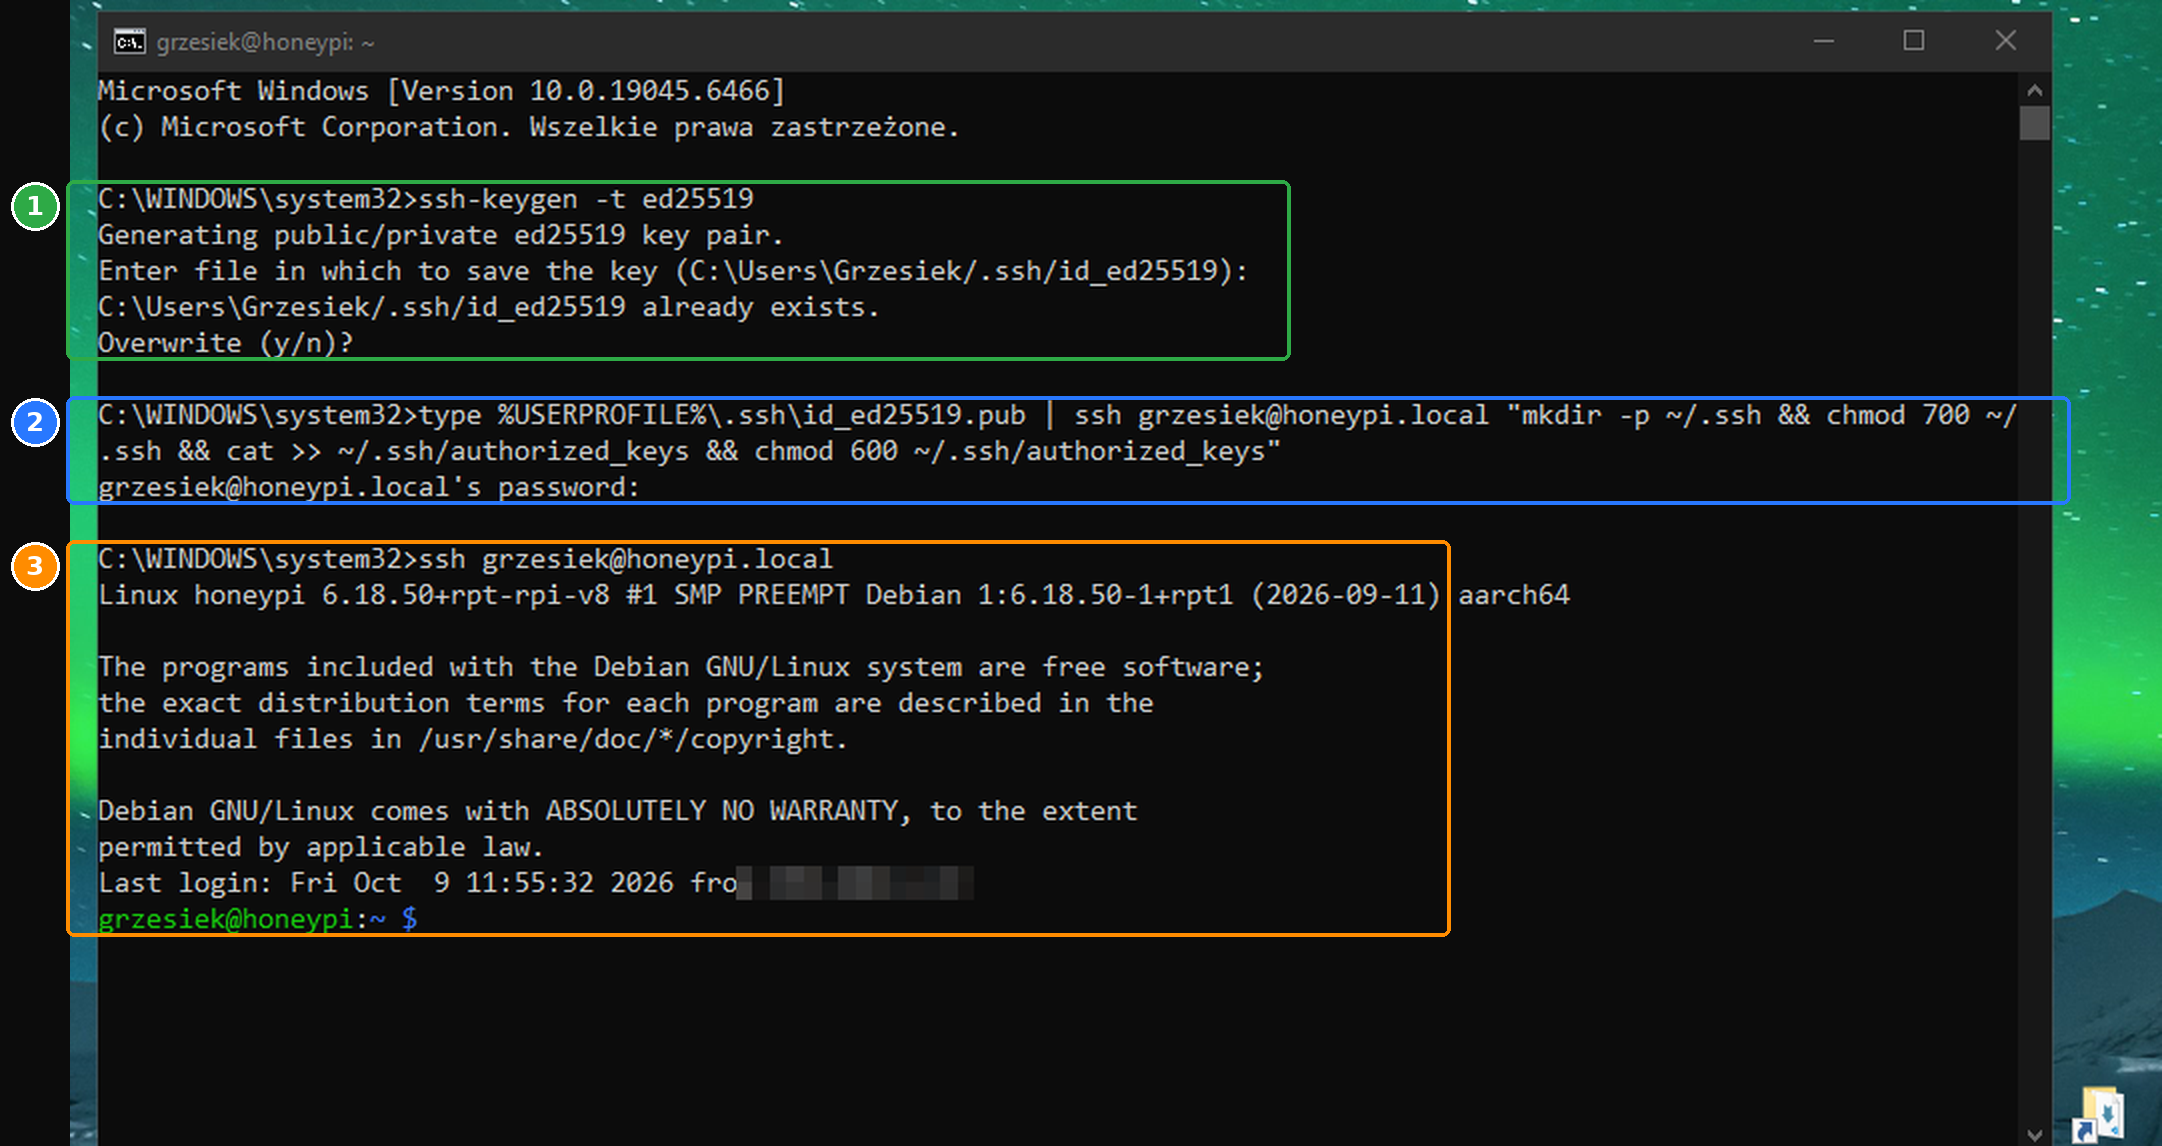
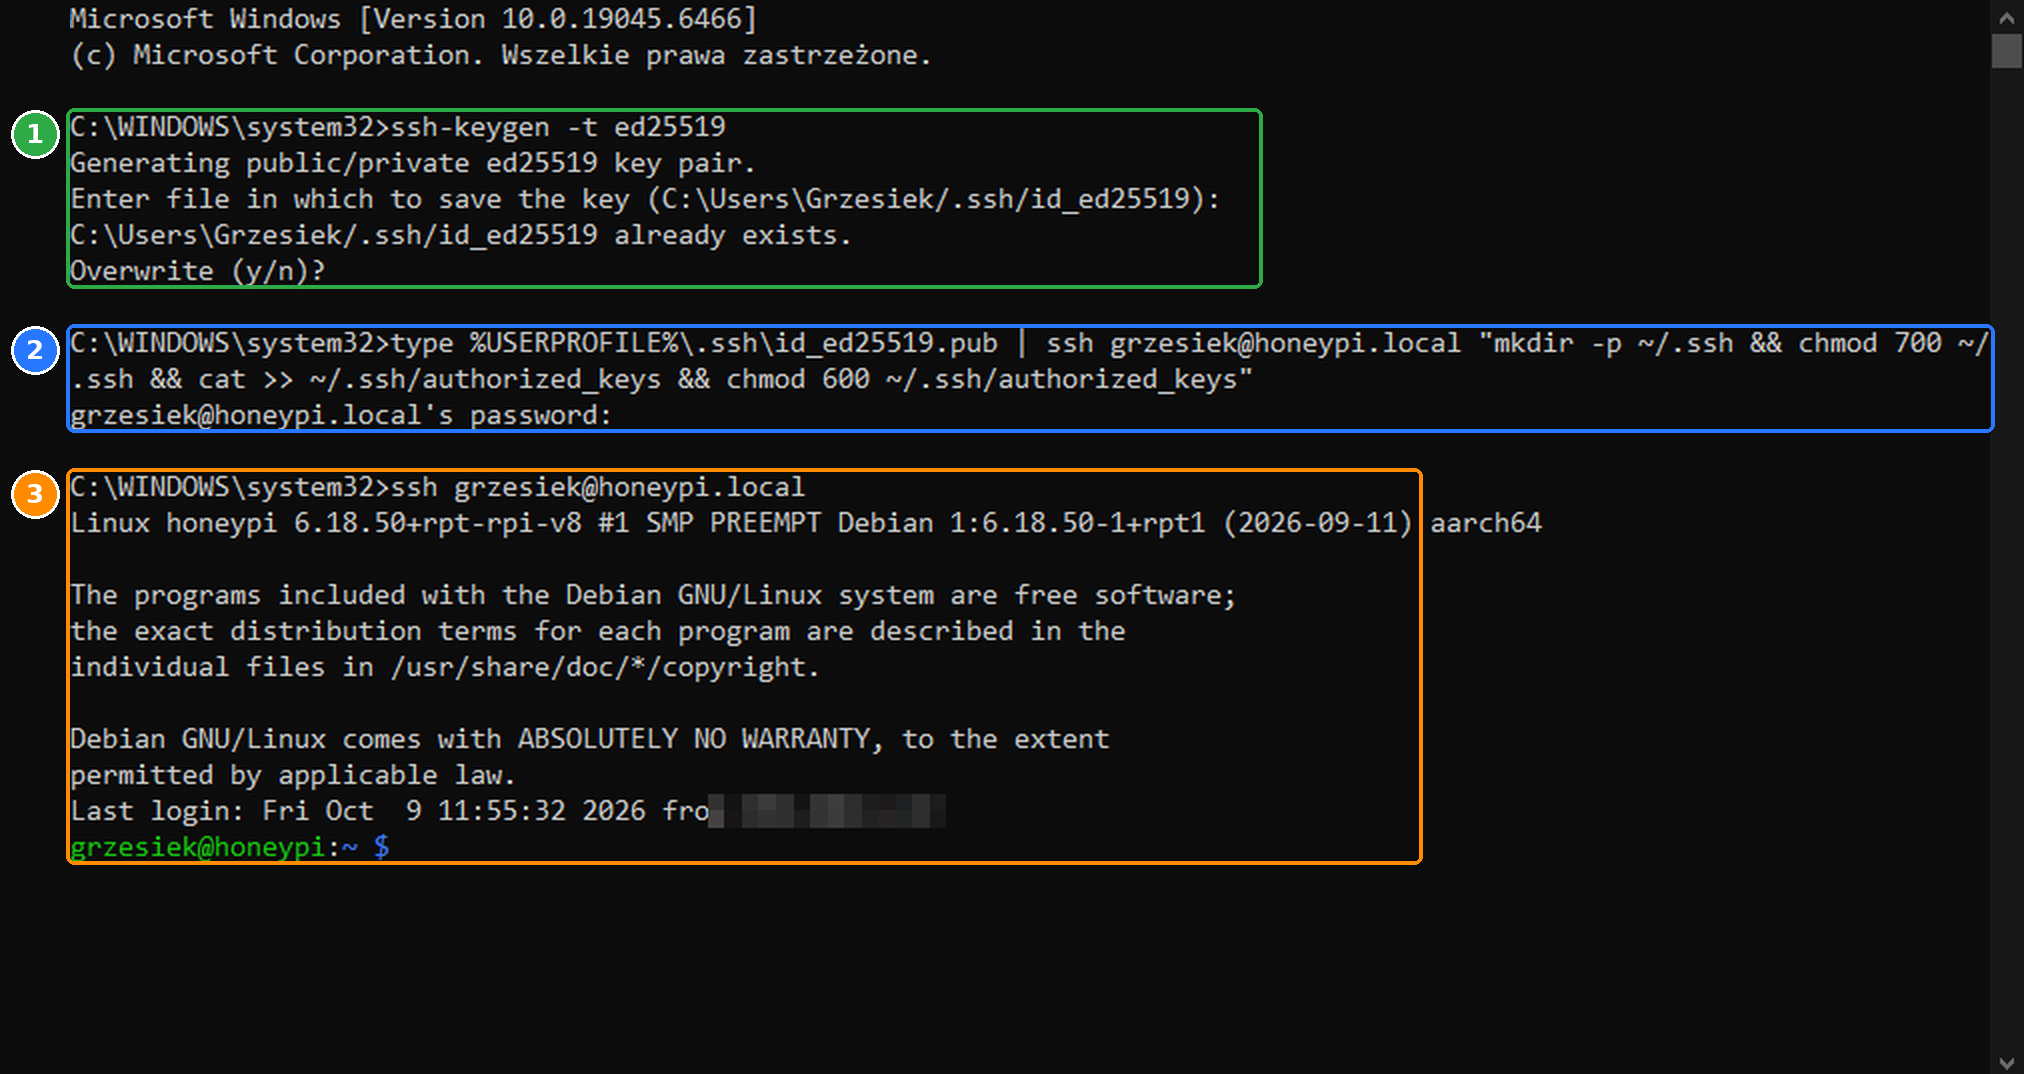
Docs: disable SSH password login (02c part 2)
Explain the sshd drop-in that disables password and root login, why the
01- prefix wins over Imager's 50-cloud-init.conf, and both login tests.
Recrop earlier terminal screenshots (25-28) to remove the desktop
background.

Claude-Session: https://claude.ai/code/session_01TvLwZ7r5P8xzBt4HBEL7r4

Changed region(s): [[0.0, 0.0, 1.0, 1.0]]

diff --git a/docs/02c-ssh-hardening.md b/docs/02c-ssh-hardening.md
@@ -3,7 +3,7 @@
 SSH to jedyne „drzwi” do Raspberry, więc zabezpieczamy je jako pierwsze. Kolejność ma znaczenie: każdy krok sprawdzamy, zanim zrobimy następny, żeby nie zablokować sobie dostępu.
 
 1. **Logowanie kluczem** zamiast hasła ✅
-2. Wyłączenie logowania hasłem
+2. Wyłączenie logowania hasłem ✅
 3. Prawdziwy SSH na innym porcie (port 22 zostaje dla honeypota)
 4. Firewall
 
@@ -75,4 +75,89 @@ ssh-keygen -p -f %USERPROFILE%\.ssh\id_ed25519
 
 Uwaga: jeśli ten sam klucz służy np. do GitHuba, tam też zacznie pytać o passphrase.
 
-➡ Dalej: część 2, wyłączenie logowania hasłem (wkrótce).
+---
+
+## Część 2: wyłączenie logowania hasłem
+
+Skoro klucz działa, hasło przez SSH nie jest już potrzebne. A to właśnie hasła zgadują boty i skanery, próbując tysięcy kombinacji (*brute force*). Bez logowania hasłem takie ataki tracą sens.
+
+> ⚠ **Zasada bezpieczeństwa:** okno, w którym jesteś zalogowany, zostaw otwarte do końca testu. Jeśli nowa konfiguracja coś zepsuje, przez nie wszystko cofniesz. Testuj zawsze w **nowym** oknie.
+
+### Komendy
+
+Na Raspberry:
+
+```bash
+ls /etc/ssh/sshd_config.d/                                                    # 1
+printf 'PasswordAuthentication no\nKbdInteractiveAuthentication no\nPermitRootLogin no\n' | sudo tee /etc/ssh/sshd_config.d/01-hardening.conf   # 2
+sudo sshd -t && sudo systemctl reload ssh                                     # 3
+```
+
+Test na PC, w nowym oknie:
+
+```bat
+:: 4. z kluczem: ma zalogować
+ssh grzesiek@honeypi.local
+
+:: 5. bez klucza: ma odmówić
+ssh -o PubkeyAuthentication=no grzesiek@honeypi.local
+```
+
+![Wyłączenie hasła](../screenshots/2026-10-09-assembly/29-ssh-no-password.png)
+
+![Test z kluczem](../screenshots/2026-10-09-assembly/30-ssh-key-test.png)
+
+![Test bez klucza](../screenshots/2026-10-09-assembly/31-ssh-no-key-test.png)
+
+### 1 · `ls /etc/ssh/sshd_config.d/`: co już jest w ustawieniach
+
+Serwer SSH czyta główny plik `/etc/ssh/sshd_config`, a przed nim wszystkie pliki `*.conf` z folderu `sshd_config.d/`, w kolejności alfabetycznej. **Wygrywa pierwsza znaleziona wartość** danego ustawienia.
+
+U mnie był tam już `50-cloud-init.conf`, zostawiony przez Raspberry Pi Imager. Zwykle to on włącza logowanie hasłem (`PasswordAuthentication yes`), bo tak wybraliśmy w Imagerze.
+
+### 2 · `printf '...' | sudo tee /etc/ssh/sshd_config.d/01-hardening.conf`: nowe reguły
+
+Tworzy plik z trzema linijkami:
+
+| Ustawienie | Znaczenie |
+|---|---|
+| `PasswordAuthentication no` | **zakaz logowania hasłem** |
+| `KbdInteractiveAuthentication no` | zakaz drugiej, „klawiaturowej” metody podawania hasła. Bez tego hasło dałoby się wpisać tylnymi drzwiami |
+| `PermitRootLogin no` | zakaz logowania jako `root` (administrator). Logujesz się jako `grzesiek`, a uprawnienia bierzesz przez `sudo`, więc atakujący musi znać i nazwę użytkownika, i mieć klucz |
+
+- `printf`: wypisuje tekst, a `\n` to znak nowej linii (każde ustawienie w osobnej linijce).
+- `sudo tee`: zapisuje do pliku z uprawnieniami administratora. Tu **bez** `-a`, bo tworzymy nowy plik, a nie dopisujemy.
+- Nazwa **`01-`** jest celowa: `01` jest alfabetycznie przed `50`, więc nasze ustawienia są czytane pierwsze i wygrywają z `50-cloud-init.conf`. Pliku Imagera nie ruszamy.
+
+### 3 · `sudo sshd -t && sudo systemctl reload ssh`: sprawdź i wczytaj
+
+- `sshd -t` (*test*): sprawdza całą konfigurację SSH pod kątem błędów. Brak komunikatu = wszystko poprawne.
+- `&&`: uruchom następną komendę **tylko**, jeśli poprzednia się udała. Błędna konfiguracja nie zostanie wczytana.
+- `systemctl reload ssh`: wczytuje nowe ustawienia **bez zrywania** obecnych połączeń. Dlatego bezpieczniej użyć `reload` niż `restart`.
+
+### 4 · `ssh grzesiek@honeypi.local`: test z kluczem
+
+Zalogowało normalnie, kluczem. Dostęp mamy ✅
+
+### 5 · `ssh -o PubkeyAuthentication=no ...`: test bez klucza
+
+- `-o PubkeyAuthentication=no`: na czas tego jednego połączenia wyłącz klucz, czyli udawaj kogoś, kto go nie ma.
+
+Wynik `Permission denied (publickey)` znaczy: serwer od razu odmówił i nawet nie zapytał o hasło. Jedyny przyjmowany sposób logowania to klucz ✅
+
+### Gdyby coś poszło nie tak
+
+W starym, wciąż otwartym oknie:
+
+```bash
+sudo rm /etc/ssh/sshd_config.d/01-hardening.conf && sudo systemctl reload ssh
+```
+
+Gdyby żadne okno nie było otwarte: wyjmij kartę SD, włóż ją do komputera i usuń plik `01-hardening.conf` z partycji systemowej. Na Windowsie wymaga to programu do odczytu ext4. Dlatego tak ważne jest, żeby testować z otwartym zapasowym oknem.
+
+### Co to zmienia
+
+- Na Raspberry wejdziesz **tylko z komputera, który ma klucz**. Żeby logować się z innego komputera, dodaj jego klucz publiczny tak samo jak w części 1, ale jeszcze z obecnego PC (bo nowy nie zaloguje się hasłem).
+- Klucz prywatny `C:\Users\<Ty>\.ssh\id_ed25519` warto mieć w kopii zapasowej (np. w menedżerze haseł). Jego utrata oznacza utratę zdalnego dostępu.
+
+➡ Dalej: część 3, prawdziwy SSH na innym porcie (wkrótce).

diff --git a/build-log/build-log.md b/build-log/build-log.md
@@ -39,6 +39,8 @@ Temperatura procesora w zamkniętej obudowie, bez obciążenia: **51,1°C**, w n
 
 **Klucz SSH / SSH key:** na PC był już klucz `id_ed25519`, więc go nie nadpisałem i wysłałem na Raspberry ten istniejący. Logowanie działa bez hasła. Klucz nie ma passphrase, do rozważenia. / An `id_ed25519` key already existed on the PC, so I kept it and copied it to the Pi. Login works without a password. The key has no passphrase, worth revisiting. Opis / Walkthrough: [docs/02c](../docs/02c-ssh-hardening.md)
 
+**Bez haseł / No passwords:** nowy plik `/etc/ssh/sshd_config.d/01-hardening.conf` wyłącza logowanie hasłem i jako root. Imager zostawił `50-cloud-init.conf`, ale nasz `01-` jest czytany pierwszy, więc wygrywa. Test: z kluczem loguje, bez klucza `Permission denied (publickey)`. / New drop-in disables password and root login; it sorts before Imager's `50-cloud-init.conf`, so it wins. Key login works, no key gives `Permission denied (publickey)`. Opis / Walkthrough: [docs/02c, część 2](../docs/02c-ssh-hardening.md#część-2-wyłączenie-logowania-hasłem)
+
 ---
 
 ## 2026-10-08 — Części zamówione / Parts ordered

diff --git a/ROADMAP.md b/ROADMAP.md
@@ -19,7 +19,7 @@ Task checklist. When a task is done, change `[ ]` to `[x]` and add an entry to t
 - [x] Aktualizacja systemu (`sudo apt update && sudo apt full-upgrade -y`) / System update
 - [ ] Stały adres IP: rezerwacja DHCP w routerze / Static IP via DHCP reservation
 - [x] Logowanie kluczem SSH / SSH key login — [docs/02c](docs/02c-ssh-hardening.md)
-- [ ] Wyłączone logowanie hasłem / Password login disabled
+- [x] Wyłączone logowanie hasłem i jako root / Password and root login disabled — [docs/02c, część 2](docs/02c-ssh-hardening.md#część-2-wyłączenie-logowania-hasłem)
 - [ ] Prawdziwy SSH na innym porcie (np. 2222), żeby port 22 zwolnić dla honeypota / Real SSH on another port so port 22 is free for the honeypot
 - [ ] Firewall (`ufw`): tylko potrzebne porty / only the ports we need
 - [x] Pendrive sformatowany i zamontowany na stałe (`/mnt/logs`) / USB stick formatted and auto-mounted — [docs/02b](docs/02b-usb-log-drive.md)

diff --git a/screenshots/README.md b/screenshots/README.md
@@ -21,8 +21,12 @@ Drop build screenshots and photos here, e.g.:
   - `25`: sprawdzenie `/etc/fstab` / `/etc/fstab` check
   - `26`–`27`: przeniesienie `/var/log` na pendrive i sprawdzenie po restarcie (adres IPv6 zamazany) / moving `/var/log` to the USB stick and checking after reboot (IPv6 blurred)
   - `28`: klucz SSH z Windowsa (adres IP z sieci domowej zamazany) / SSH key from Windows (home LAN IP blurred)
+  - `29`–`31`: wyłączenie logowania hasłem i testy z kluczem i bez (adres IPv6 zamazany) / password login disabled, tests with and without the key (IPv6 blurred)
 
 ## ⚠ Zanim wrzucisz / Before committing
+
+Zrzuty terminala przycinamy do samego okna, bez tła pulpitu. / Terminal screenshots are cropped to the window, without the desktop background.
+
 
 To repo jest **publiczne**. Przed wrzuceniem obrazka zamaż / usuń:
 This repo is **public**. Before committing an image, blur or crop out:
